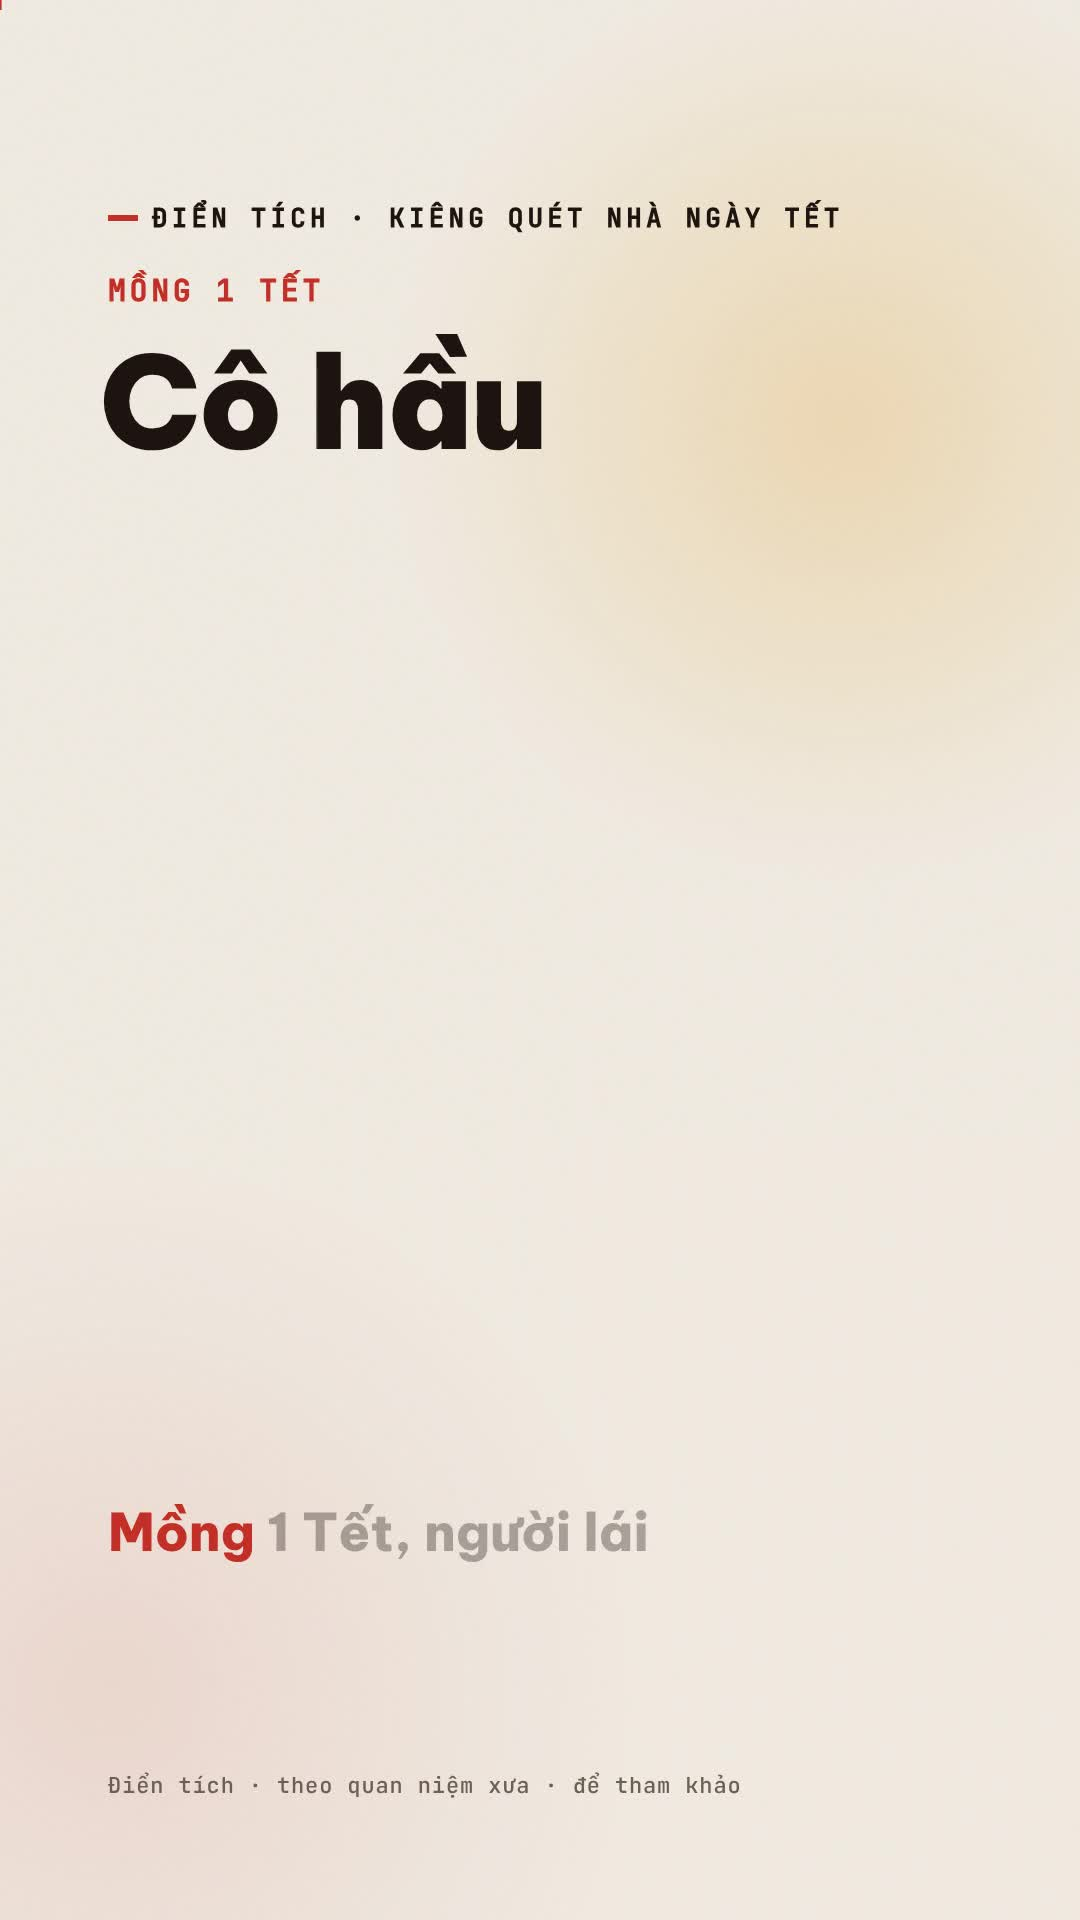
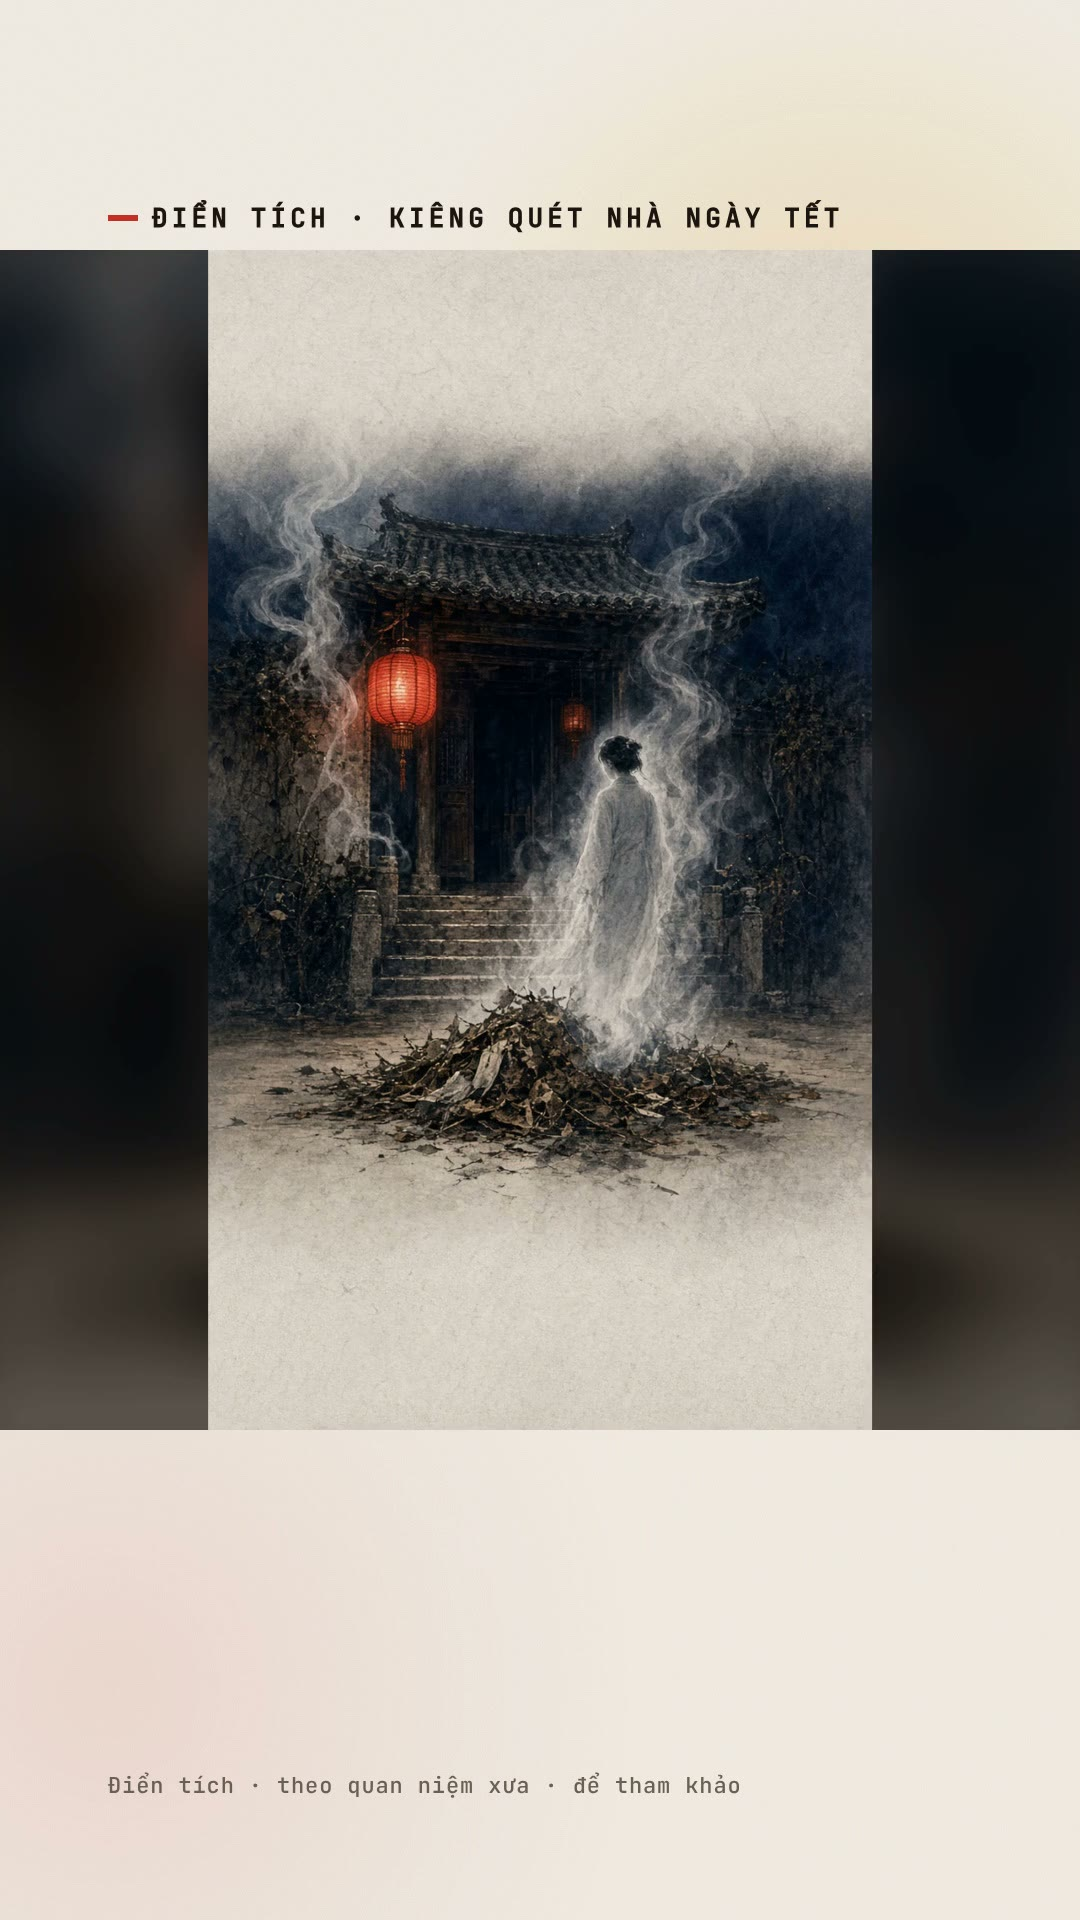
research(#131): Quét nhà c1 v2 render lại bằng 5 ảnh AI, bỏ credit trên hình
- Spec lấy từ bản _img PO đã APPROVE 04/11; credit "" ở 5 cảnh pan_tour
  (luật PO 04/11), credit ảnh AI chuyển vào spec.credits/media_credits.
- Giữ voice.wav, title, thumbnail, hook, lời đọc của c1 v2.
- Oracle 908 s, rc=0; check runtime 0, contrast 0, layout 1 (bằng bản duyệt).
- Loudness hậu kỳ -20,0 -> -14,2 LUFS, true peak -1,3 dBTP.
- Bản chữ cũ sao lưu ở oracle bak_v2_text_2026-11-05/.

diff --git a/research/hitl/pilot131/preview/out/p131_fs_quet_nha_c1v2/qa_report.md b/research/hitl/pilot131/preview/out/p131_fs_quet_nha_c1v2/qa_report.md
@@ -1,34 +1,19 @@
-# QA preview · p131_fs_quet_nha_c1v2
+# QA · p131_fs_quet_nha_c1v2 · render lại bằng 5 ảnh AI · 05/11/2026
 
-- Chủ đề: fs_quet_nha_mung1_tet · phương án **c1 v2**
[2 lines of base64/hex data omitted]
-- Trạng thái duyệt: **PENDING_APPROVAL** — v2 theo yêu cầu PO; chờ PO duyệt.
-- Title: Cô hầu biến mất trong đống rác ngày mồng 1 Tết · Thumbnail: Chui vào đống rác
-- Render: **RENDERED**  · máy: oracle vieneu-worker (A1 2 OCPU/12 GB)
-- Thời lượng: 45.5 s · thời gian render: 645 s · RAM đỉnh: 2217 MB
-- Âm thanh: {'integrated_lufs': -20.0, 'true_peak_dbfs': -1.4}
-
-- First frame: **FIRST_FRAME_MISMATCH** — Duyệt: đống rác trước sân nhà xưa, bóng người phụ nữ mờ dần, đèn lồng đỏ. Thực tế: chữ động 'Cô hầu / chui vào đống rác' (không có ảnh).
-
-## Nguồn
-- s1 Giáo dục & Thời đại
-- s2 vietbao.vn
-- s3 Znews
-- s4 Pháp luật VN
-
-## Fact đã dùng
-- f01, f02, f03, f04, f07, f08, f09, f10
-
-## Lỗi / điểm còn tồn tại
-- 'Sưu thần ký' chỉ dựa 1 bài báo (s1); chưa đối chiếu văn bản gốc.
-- Không có ảnh tư liệu (Tết/chổi); toàn bộ là thiết bị chữ động — first frame đã duyệt (đống rác + bóng người mờ, đèn lồng) KHÔNG dựng được, thay bằng hook_slam chữ.
-- Render 2 lần: lần 1 chữ A/B đè chữ cảnh split, 'Nghèo dần' tràn và dấu son đè chữ -> đã sửa.
-
-## Cảnh cần PO chú ý
-- 0–3s: hook chữ thay cho cảnh đã duyệt
-- cảnh split hai dị bản (A/B)
-- Âm lượng −20,0 LUFS (thấp so với chuẩn short −14)
-
-## File
-- final_preview.mp4 · contact_sheet.jpg · first_frame.jpg · timing.json · status.json · render.log · mem_samples.txt
+- Packaging c1 v2 đã APPROVE (content_sha256 `54dd0dd3…`): title, thumbnail, hook, lời đọc giữ nguyên; `lines` giống spec đã duyệt, dùng lại `voice.wav` 03/11.
+- Spec: lấy từ bản `_img` PO đã APPROVE 04/11, đổi `id`/`out` về `p131_fs_quet_nha_c1v2`, **bỏ credit trên hình** (`credit: ""` ở 5 cảnh pan_tour, luật PO 04/11). Credit ảnh AI chỉ ghi ở `spec.credits` → `media_credits` và mô tả.
+- Bản cũ (chữ động 03/11) sao lưu ở `oracle:~/pilot131/out/p131_fs_quet_nha_c1v2/bak_v2_text_2026-11-05/`.
+- Ảnh: `ai_01..05.png` 1080×1920, sha256 khớp Mac ↔ Oracle (3e41d810/c40a75fd/a30b9f38/8ffa3df7/eee225b2). Lead đã soát: không chữ, không lộ mặt, không bạo lực.
+- Render Oracle (2 OCPU/12 GB) qua `studio_runner.py`, `bash -c`, `/usr/bin/chromium`, nav timeout 300 s: rc=0, 908 s, RAM đỉnh 474 MB.
+- Probe: h264 1080×1920 30 fps + AAC, 45,5 s.
+- Loudness: mix production ra −20,0 LUFS (Oracle chưa có PR #133). Hậu kỳ: gain +7 dB + alimiter trần −1,5 dBTP (cách của PR #133), video copy → **−14,2 LUFS, true peak −1,3 dBTP**.
+- hyperframes check: runtime 0 lỗi, contrast 0 lỗi, layout 1 lỗi `content_overlap` ở 31,75 s (kicker "TỪ ĐÓ · NGƯỜI TA" và chữ "Kiêng") — xem khung không thấy đè; bằng bản đã APPROVE.
+- Contact sheet (`contact_sheet.jpg`, 15 khung, trái→phải, trên→dưới): 0 · 0,5 · 4,6 · 9,3 · 12 · 15 · 17,5 · 19,3 · 21,5 · 29,5 · 30,8 · 31,75 · 33 · 37 · 45,4 s.
+  - Khung 0: ảnh ai_01 (đống rác, bóng cô hầu tan vào khói, đèn lồng đỏ) — đủ nghĩa, khớp first frame đã duyệt, giống khung 0 bản `_img` trừ dòng credit.
+  - Không còn dòng "ẢNH MINH HOẠ AI" ở mọi khung.
+  - Phụ đề nằm dưới khung ảnh, không đè mặt hay chủ thể.
+- Còn mở:
+  - Đầu cảnh pan_tour (ai_01, ai_02, ai_05) còn nền mờ hai bên lúc máy đang phóng vào (như bản `_img`).
+  - Cảnh báo đa dạng (không chặn): cảnh 0 là pan_tour; 3 pan_tour liên tiếp.
+  - 'Sưu thần ký' chỉ dựa 1 bài báo.
+- Trạng thái: chờ PO xem bản cuối. Không publish, không hẹn lịch.
